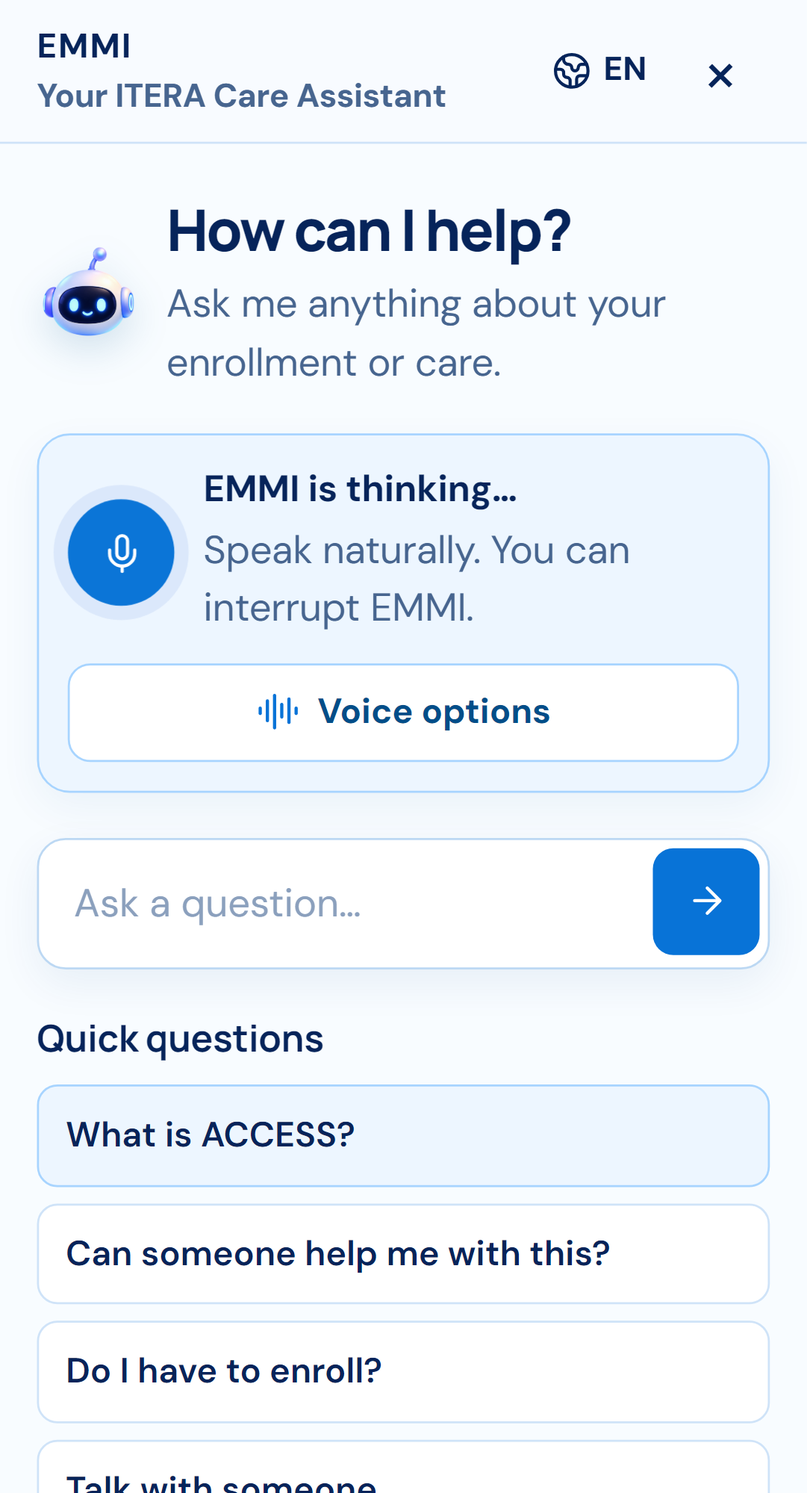
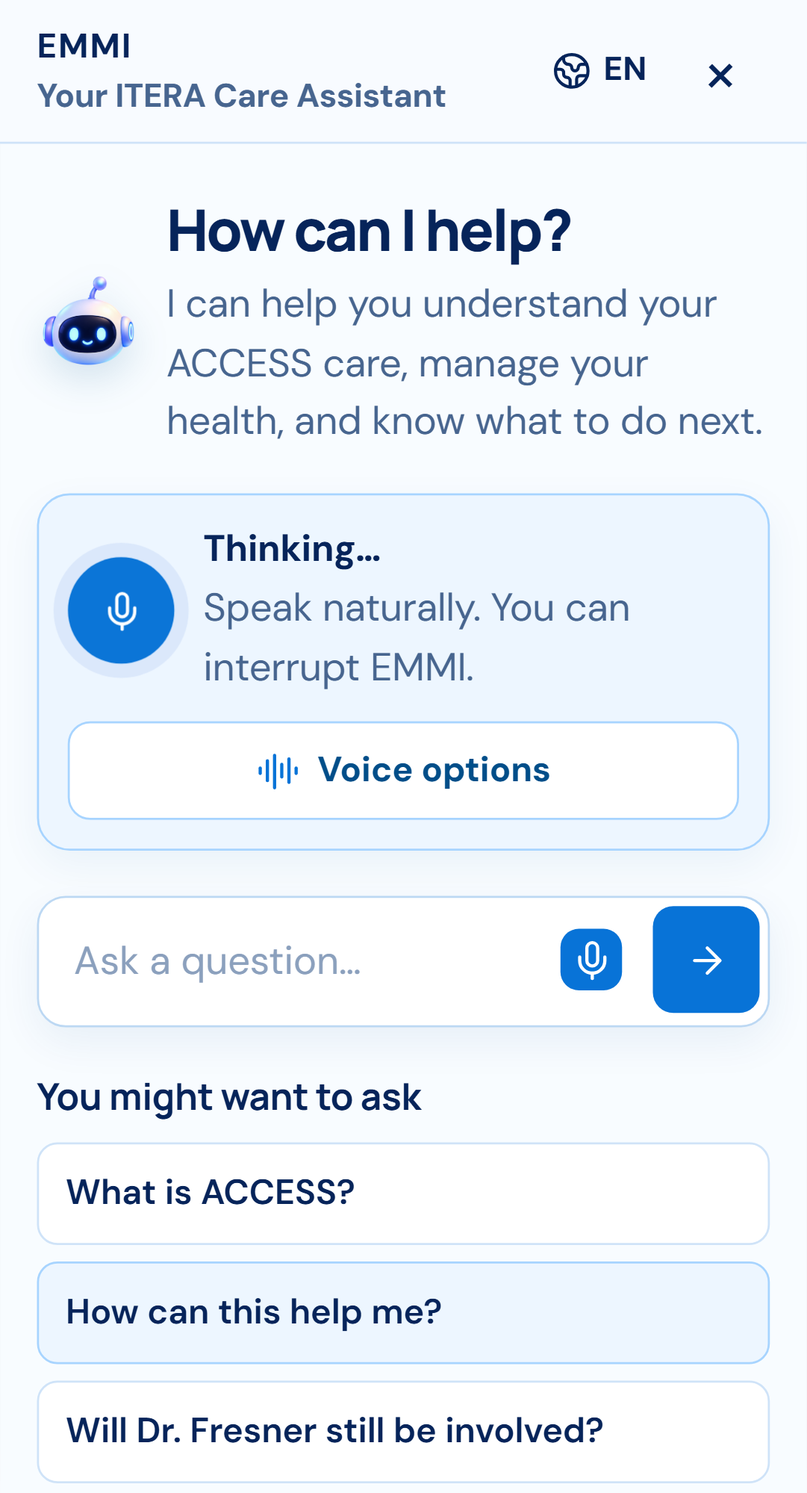
fix: close out everything the phases left open
The four pre-existing e2e failures and the trust hero clipping were carried
through every phase as out-of-scope. They are fixed here, and behind two of them
were real defects.

nextBestAction applied a screen-level override for ENROLLMENT_CONFIRMED that
flattened every program call to action into one label — a screen rule overriding
program intent for all programs at once. PROGRAM_RESOLVED_SCREENS now limits it
to the screen that resolves the program.

The voice panel computed a patient-facing status for a running tool — "Checking
your ACCESS cost…" — and then printed the generic coaching line instead, so the
patient read "speak naturally" while EMMI was busy looking their cost up.

The trust hero cropped its own text: at 384px and 150% the overlay ran 32px past
the card and "Recommended by Dr. Fresner" disappeared entirely. The composed text
is now a grid sibling of the artwork rather than a child of it, so the artwork
keeps its own 1672/941 box — and with it every percentage the physician photo and
badge clip-path are measured against — while the card takes whichever of the two
is taller. Hand-broken lines may now wrap instead of being cut, and the two-line
clamp is gone: a long physician name grows the card rather than losing the name.
At 100% nothing moves.

The rest were stale expectations, including one that asserted the opposite of the
behaviour we most want: a callback requested during an open safety episode was
[…]

diff --git a/e2e/enrollment.spec.js b/e2e/enrollment.spec.js
@@ -438,7 +438,7 @@ test("shared enrollment welcome adapts to every program and enrollment source", 
       await expect(welcome.getByRole("button", { name: ctaLabel })).toBeVisible();
       await expect(page.locator(".progress-meta span").first()).toHaveText("Enrollment complete");
       await expect(page.getByRole("progressbar", { name: "Journey progress" })).toHaveAttribute("aria-valuenow", "100");
-      if (referral) await expect(welcome.getByText(/works with Dr\. Fresner to help keep your care coordinated\./)).toBeVisible();
+      if (referral) await expect(welcome.getByText(/works with Dr\. Fresner and your care team to help keep your care connected\./)).toBeVisible();
       else {
         await expect(welcome).not.toContainText("Dr. Fresner");
         if (["ACCESS", "CCM"].includes(program)) await expect(welcome.getByText("ITERA HEALTH helps keep your care coordinated with the doctors you already see.", { exact: true })).toBeVisible();
@@ -2246,13 +2246,14 @@ test("Emmi opens as a contextual conversation layer without changing enrollment 
   await openEmmiConversation(page);
   const dialog = page.getByRole("dialog", { name: "EMMI – Your ITERA Care Assistant" });
   await expect(dialog).toBeVisible();
-  await expect(dialog.getByText("Ask me anything about your enrollment or care.")).toBeVisible();
+  await expect(dialog.getByText("I can help you understand your ACCESS care, manage your health, and know what to do next.")).toBeVisible();
   await expect(dialog.getByPlaceholder("Ask a question…")).toBeVisible();
-  await expect(dialog.getByText("What is Medicare checking?")).toBeVisible();
-  await expect(dialog.getByText("Will this affect my benefits?")).toBeVisible();
-  await expect(dialog.getByText("Why do you need my information?")).toBeVisible();
-  await expect(dialog.getByText("Prefer to talk with someone?")).toBeVisible();
-  await expect(dialog.getByRole("link", { name: /Talk to our care team/ })).toHaveAttribute("href", "tel:+13053948070");
+  await expect(dialog.getByText("Why does Medicare need to verify me?")).toBeVisible();
+  await expect(dialog.getByText("What is the comparison group?")).toBeVisible();
+  await expect(dialog.getByText("Will this change my Medicare?")).toBeVisible();
+  // Human support is one collapsed row that opens the two ways to reach a person.
+  await dialog.getByRole("button", { name: /Need human help/ }).click();
+  await expect(dialog.getByRole("link", { name: /Call our care team/ })).toHaveAttribute("href", "tel:+13053948070");
   await expect(dialog.getByText("EMMI will confirm before sending the request")).toBeVisible();
   await expect(dialog.locator(".contextual-assurance")).toHaveCount(0);
   await expect(dialog).not.toContainText(/ENROLLMENT\s*QUESTIONS/i);
@@ -2285,16 +2286,23 @@ test("Emmi opens as a contextual conversation layer without changing enrollment 
   await dialog.getByRole("button", { name: "Send question" }).click();
   await expect(dialog.getByText("This screen explains what Medicare needs you to know before checking whether ACCESS is available to you.")).toBeVisible();
 
-  await input.fill("I have chest pain and cannot breathe");
-  await dialog.getByRole("button", { name: "Send question" }).click();
-  await expect(dialog.getByText(/urgent medical attention/i)).toBeVisible();
-  await expect(dialog.getByRole("link", { name: "Call 911" })).toHaveAttribute("href", "tel:911");
-
+  // A callback is a normal request, and it is answered normally while nothing urgent is open.
   await dialog.getByRole("button", { name: "Have someone call me" }).click();
   await expect(dialog.getByText("Would you like me to ask the ITERA care team to call you?")).toBeVisible();
   await input.fill("Yes");
   await dialog.getByRole("button", { name: "Send question" }).click();
   await expect(dialog.getByText("Done. I sent a callback request to the care team.")).toBeVisible();
+
+  await input.fill("I have chest pain and cannot breathe");
+  await dialog.getByRole("button", { name: "Send question" }).click();
+  await expect(dialog.getByText(/urgent medical attention/i)).toBeVisible();
+  await expect(dialog.getByRole("link", { name: "Call 911" })).toHaveAttribute("href", "tel:911");
+
+  // And once something urgent is open, it outranks everything else the patient asks next. Asking
+  // for a callback here is answered by the safety episode, not by a scheduling confirmation.
+  await dialog.getByRole("button", { name: "Have someone call me" }).click();
+  await expect(dialog.locator(".assistant-message.assistant").last()).toContainText(/urgent/i);
+  await expect(dialog.getByRole("link", { name: "Call 911" }).last()).toBeVisible();
   await dialog.locator(".assistant-close").click();
   await expect(dialog).toHaveCount(0);
   await expect(page.locator("#screen-select")).toHaveValue("ACCESS_PRE_ELIGIBILITY_NOTICE");
@@ -2309,11 +2317,12 @@ test("Emmi opens as a contextual conversation layer without changing enrollment 
   await page.locator("#screen-select").selectOption("CONSENT_REVIEW", { force: true });
   await openEmmiConversation(page);
   const consentDialog = page.getByRole("dialog", { name: "EMMI – Your ITERA Care Assistant" });
-  await expect(consentDialog.getByText("What am I agreeing to?")).toBeVisible();
-  await expect(consentDialog.getByText("Can I change my mind?")).toBeVisible();
-  await expect(consentDialog.getByText("What will this cost?")).toBeVisible();
-  await expect(consentDialog.getByText("Does this change my Medicare?")).toBeVisible();
-  await expect(consentDialog.getByText("What does signing as a personal representative mean?")).toBeVisible();
+  // Reopening on a different screen continues the same conversation rather than starting a new one,
+  // so what is on screen here is the thread, not the discovery suggestions. Per-screen suggestions
+  // are asserted in emmi-conversation.spec.js, where the panel opens fresh.
+  await expect(consentDialog).toHaveAttribute("data-assistant-mode", "conversation");
+  await expect(consentDialog.getByText("I have chest pain and cannot breathe")).toBeVisible();
+  await expect(consentDialog.getByText("Browse common questions")).toHaveCount(0);
   await consentDialog.locator(".assistant-close").click();
   await expect(page.locator("#screen-select")).toHaveValue("CONSENT_REVIEW");
 });

diff --git a/src/app.js b/src/app.js
@@ -441,16 +441,22 @@ function resolveTrustHero(offer) {
 function TrustHeroCard() {
   const hero = resolveTrustHero(state.offer);
   const overlayText = hero.overlayLabel && hero.physicianName ? `${hero.overlayLabel} ${hero.physicianName}` : "";
-  const physicianAttribution = hero.headlineLines?.length
+  // The composed headline sits beside the artwork rather than inside it: it is a grid sibling of
+  // the media, so when a patient scales text up the card grows to hold it instead of cropping the
+  // attribution the whole invitation rests on.
+  const textOverlay = hero.headlineLines?.length
     ? `<div class="trust-hero-text-overlay"><h2 class="trust-hero-headline" aria-label="${hero.headlineLines.join(" ")}">${hero.headlineLines.map((line, index) => `<span class="${index === 2 ? "accent" : ""}">${line}</span>`).join("")}</h2><p class="trust-hero-supporting-copy" aria-label="${hero.supportingLines.join(" ")}">${hero.supportingLines.map(line => `<span>${line}</span>`).join("")}</p>${overlayText ? `<p class="physician-attribution ${overlayText.length > 34 ? "long" : ""}"><span>${hero.overlayLabel}</span> <strong>${hero.physicianName}</strong></p>` : ""}</div>`
-    : overlayText ? `<p class="trust-hero-overlay ${overlayText.length > 34 ? "long" : ""}"><span>${hero.overlayLabel}</span> <strong>${hero.physicianName}</strong></p>` : "";
+    : "";
+  const pillOverlay = hero.headlineLines?.length || !overlayText
+    ? ""
+    : `<p class="trust-hero-overlay ${overlayText.length > 34 ? "long" : ""}"><span>${hero.overlayLabel}</span> <strong>${hero.physicianName}</strong></p>`;
   const customPhysicianPhoto = hero.physicianPhotoUrl && hero.physicianPhotoUrl !== DEFAULT_PROTOTYPE_CONFIG.physicianPhotoUrl;
   const media = hero.src
-    ? `<img class="trust-hero-image" src="${hero.src}" alt="${hero.alt}" ${hero.alt ? "" : "aria-hidden=\"true\""}>${customPhysicianPhoto ? `<span class="trust-hero-physician-photo custom"><img src="${escapeHtml(hero.physicianPhotoUrl)}" alt=""></span><img class="trust-hero-badge-layer" src="${hero.src}" alt="" aria-hidden="true">` : ""}${physicianAttribution}`
+    ? `<img class="trust-hero-image" src="${hero.src}" alt="${hero.alt}" ${hero.alt ? "" : "aria-hidden=\"true\""}>${customPhysicianPhoto ? `<span class="trust-hero-physician-photo custom"><img src="${escapeHtml(hero.physicianPhotoUrl)}" alt=""></span><img class="trust-hero-badge-layer" src="${hero.src}" alt="" aria-hidden="true">` : ""}${pillOverlay}`
     : `<div class="generic-trust-hero">${icon("shield")}<strong>${L("Connected care with ITERA HEALTH", "Cuidado conectado con ITERA HEALTH", "Swen konekte avèk ITERA HEALTH")}</strong><small>${L("Support designed around your health needs", "Apoyo diseñado según sus necesidades de salud", "Sipò ki fèt selon bezwen sante ou")}</small></div>`;
   return `<section class="invitation-stage trust-hero-card" data-trust-source="${state.offer.enrollmentSource}" data-hero-variant="${hero.variant}">
     <div class="stage-brand-row"><button class="language stage-language" data-action="language" aria-label="${languageActionLabel()}">${icon("language")} ${languageCode()}</button></div>
-    <div class="trust-hero-media">${media}</div>
+    <div class="trust-hero-media">${media}</div>${textOverlay}
   </section>`;
 }
 
@@ -1863,9 +1869,15 @@ function assistantVoiceEntry(guideState) {
   // — the panel reports what is happening rather than what was configured.
   const live = !["DISCONNECTED", "ERROR"].includes(state.assistantVoiceState);
   if (!live && ["OFF", "ERROR", "UNSUPPORTED"].includes(guideState)) return `<button class="assistant-talk-button" type="button" data-assistant-action="start-voice">${icon("mic")}<strong>${labels.talk}</strong></button>`;
+  // A running tool has already produced patient-facing words for what EMMI is doing. They were
+  // being computed and then thrown away, so the patient read "speak naturally" while EMMI was busy
+  // looking their cost up.
+  const toolStatus = state.assistantVoiceState === "TOOL_RUNNING" && state.assistantVoiceDetail && state.assistantVoiceDetail !== "prototype_visual_preview"
+    ? state.assistantVoiceDetail
+    : "";
   const detail = state.assistantVoiceDetail === "session_ending_soon"
     ? L("This voice session will end soon, but your enrollment progress is saved.", "Esta sesión terminará pronto, pero su progreso está guardado.", "Sesyon vwa sa a pral fini byento, men pwogrè ou anrejistre.")
-    : L("Speak naturally. You can interrupt EMMI.", "Hable con naturalidad. Puede interrumpir a EMMI.", "Pale nòmalman. Ou ka entèwonp EMMI.");
+    : toolStatus || L("Speak naturally. You can interrupt EMMI.", "Hable con naturalidad. Puede interrumpir a EMMI.", "Pale nòmalman. Ou ka entèwonp EMMI.");
   return `<section class="assistant-voice-state" data-voice-state="${state.assistantVoiceState}">
       <div class="assistant-voice-state-row"><span class="assistant-voice-orb">${icon(state.assistantVoiceMuted ? "micOff" : "mic")}</span><div><strong role="status" aria-live="polite">${live ? assistantVoiceCopy() : emmiGuideStatusLabel(guideState)}</strong><small>${detail}</small></div></div>
       <button type="button" class="assistant-voice-options-toggle" data-assistant-action="voice-options" aria-expanded="${state.assistantVoiceOptionsOpen}" aria-controls="assistant-voice-options">${icon("audioLines")}<span>${labels.voiceOptions}</span></button>

diff --git a/src/styles.css b/src/styles.css
@@ -1268,17 +1268,27 @@ p { margin:0; }
 .trust-hero-overlay { position:absolute;z-index:3;margin:0;color:var(--text-primary);font-size:clamp(.58rem,2.55vw,.69rem);font-weight:600;line-height:1.25;text-align:left;max-height:2.5em;overflow:hidden; }
 .trust-hero-overlay strong { color:var(--primary-600);font-weight:700; }
 .trust-hero-overlay.long { font-size:clamp(.45rem,1.85vw,.56rem);line-height:1.15;letter-spacing:-.012em; }
-.trust-hero-card[data-hero-variant="DOCTOR_RECOMMENDS_ACCESS"],.trust-hero-card[data-hero-variant="PHYSICIAN_SUPERVISING"] { aspect-ratio:1672/941; }
-.trust-hero-text-overlay { position:absolute;z-index:3;top:20.5%;left:47.2%;display:flex;flex-direction:column;align-items:stretch;width:51.2%;color:var(--text-primary);text-align:left;user-select:text; }
+/* The composed hero is one grid cell holding two things: the artwork, which keeps its own fixed box
+   — and with it every percentage the physician photo and the badge clip-path are measured against —
+   and the text, which is a sibling rather than a child so it can be taller. The card takes whichever
+   is taller, so scaled-up text grows the card instead of being cropped by it. The overlay's offsets
+   are percentage margins, which resolve against the card's WIDTH; the old top:20.5% and top:14.5%
+   were percentages of the artwork's HEIGHT, so each is divided by the 1672/941 ratio to land in the
+   same place at every width. */
+.trust-hero-card[data-hero-variant="DOCTOR_RECOMMENDS_ACCESS"],.trust-hero-card[data-hero-variant="PHYSICIAN_SUPERVISING"] { display:grid;height:auto;aspect-ratio:auto; }
+.trust-hero-card[data-hero-variant="DOCTOR_RECOMMENDS_ACCESS"] .trust-hero-media,
+.trust-hero-card[data-hero-variant="PHYSICIAN_SUPERVISING"] .trust-hero-media { position:relative;grid-area:1/1;inset:auto;width:100%;aspect-ratio:1672/941;border-radius:inherit; }
+.trust-hero-text-overlay { position:relative;z-index:3;grid-area:1/1;align-self:start;display:flex;flex-direction:column;align-items:stretch;width:51.2%;margin:11.54% 0 2.5% 47.2%;color:var(--text-primary);text-align:left;user-select:text; }
 .trust-hero-headline { display:grid;gap:0;margin:0;font-size:clamp(1.12rem,5.2vw,1.34rem);font-weight:800;line-height:1.02;letter-spacing:-.045em; }
-.trust-hero-headline span { display:block;white-space:nowrap; }
+.trust-hero-headline span { display:block; }
 .trust-hero-headline .accent { color:var(--primary-600); }
-.trust-hero-supporting-copy { display:grid;overflow:hidden;margin:8px 0 0;max-width:100%;color:var(--text-primary);font-size:clamp(.82rem,3.45vw,.88rem);font-weight:600;line-height:1.18;letter-spacing:-.01em; }
-.trust-hero-supporting-copy span { display:block;white-space:nowrap; }
-.physician-attribution { position:static;display:-webkit-box;overflow:hidden;margin:7px 0 0;max-height:2.36em;color:var(--text-primary);font-size:clamp(.82rem,3.45vw,.88rem);font-weight:600;line-height:1.18;letter-spacing:-.01em;text-align:left;overflow-wrap:normal;word-break:normal;-webkit-box-orient:vertical;-webkit-line-clamp:2; }
+.trust-hero-supporting-copy { display:grid;margin:8px 0 0;max-width:100%;color:var(--text-primary);font-size:clamp(.82rem,3.45vw,.88rem);font-weight:600;line-height:1.18;letter-spacing:-.01em; }
+.trust-hero-supporting-copy span { display:block; }
+/* No line clamp: the card grows for the attribution rather than truncating the doctor's name, which is the one fact the whole invitation rests on. */
+.physician-attribution { position:static;margin:7px 0 0;color:var(--text-primary);font-size:clamp(.82rem,3.45vw,.88rem);font-weight:600;line-height:1.18;letter-spacing:-.01em;text-align:left;overflow-wrap:normal;word-break:normal; }
 .physician-attribution span { font-weight:600; }
 .physician-attribution strong { color:var(--primary-600);font-size:inherit;font-weight:600;line-height:inherit;white-space:nowrap; }
-.trust-hero-card[data-hero-variant="PHYSICIAN_SUPERVISING"] .trust-hero-text-overlay { top:14.5%;left:46.8%;width:48.5%; }
+.trust-hero-card[data-hero-variant="PHYSICIAN_SUPERVISING"] .trust-hero-text-overlay { width:48.5%;margin:8.16% 0 2.5% 46.8%; }
 .trust-hero-card[data-hero-variant="PHYSICIAN_SUPERVISING"] .trust-hero-headline { font-size:clamp(1.02rem,4.75vw,1.25rem);line-height:1.04; }
 .trust-hero-card[data-hero-variant="PHYSICIAN_SUPERVISING"] .trust-hero-supporting-copy { margin-top:10px;max-width:84%;font-size:clamp(.76rem,3.25vw,.86rem);font-weight:500;line-height:1.16; }
 .trust-hero-card[data-hero-variant="PHYSICIAN_SUPERVISING"] .physician-attribution { margin-top:8px;font-size:clamp(.76rem,3.25vw,.86rem);font-weight:500;line-height:1.22; }

diff --git a/src/nextBestAction.js b/src/nextBestAction.js
@@ -7,14 +7,17 @@ const T = (en, es, ht) => Object.freeze({ en, es, ht });
 const LABELS = Object.freeze({
   startCareJourney: T("Start your care journey", "Comience su recorrido de cuidado", "Kòmanse pwosesis swen ou"),
   continue: T("Continue", "Continuar", "Kontinye"),
-  setUpMyCareAfterEnrollment: T("Set up my care", "Configurar mi cuidado", "Mete swen mwen an plas"),
   setUpMyCare: T("Set up my care", "Configurar mi cuidado", "Mete swen mwen an plas"),
   continueGettingStarted: T("Continue getting started", "Continuar los primeros pasos", "Kontinye premye etap yo"),
   setUpMyMonitor: T("Set up my monitor", "Configurar mi monitor", "Mete monitè mwen an plas"),
   getMyMonitor: T("Get my monitor", "Obtener mi monitor", "Jwenn monitè mwen"),
   takeFirstReading: T("Take my first reading", "Tomar mi primera medición", "Pran premye mezi mwen")
 });
-const SCREEN_ACTIONS = Object.freeze({ INVITATION: { label: LABELS.startCareJourney, actionType: "LEARN_MORE" }, ENROLLMENT_CONFIRMED: { label: LABELS.setUpMyCareAfterEnrollment, actionType: "HEALTH_CHECK" } });
+const SCREEN_ACTIONS = Object.freeze({ INVITATION: { label: LABELS.startCareJourney, actionType: "LEARN_MORE" } });
+// Screens whose next step belongs to the program rather than to the screen. Enrollment complete is
+// the one: an RPM patient sets up a monitor and an ACCESS patient sets up their care, each with its
+// own action type, so it must reach the program resolver instead of the generic "Continue".
+const PROGRAM_RESOLVED_SCREENS = new Set(["ENROLLMENT_CONFIRMED"]);
 
 // A device is only "already with the patient" when ITERA assigned one or the patient told us
 // they own one. Anything else means the monitor still has to be arranged.
@@ -35,7 +38,7 @@ function monitoringAction(context) {
 }
 
 const PROGRAM_ACTIONS = Object.freeze({
-  ACCESS: () => ({ label: LABELS.setUpMyCareAfterEnrollment, route: "ACCESS_BASELINE", actionType: "HEALTH_CHECK" }),
+  ACCESS: () => ({ label: LABELS.setUpMyCare, route: "ACCESS_BASELINE", actionType: "HEALTH_CHECK" }),
   CCM: () => ({ label: LABELS.setUpMyCare, route: "ONBOARDING", actionType: "CARE_SETUP" }),
   PCM: () => ({ label: LABELS.continueGettingStarted, route: "ONBOARDING", actionType: "CARE_SETUP" }),
   APCM: () => ({ label: LABELS.continueGettingStarted, route: "ONBOARDING", actionType: "CARE_SETUP" }),
@@ -49,7 +52,7 @@ const PROGRAM_ACTIONS = Object.freeze({
 
 export function resolveNextBestAction(context = {}) {
   if (context.currentScreen && SCREEN_ACTIONS[context.currentScreen]) return { ...SCREEN_ACTIONS[context.currentScreen], route: context.nextRoute || context.currentScreen };
-  if (context.currentScreen && context.nextRoute) return { label: LABELS.continue, route: context.nextRoute, actionType: "CONTINUE_CURRENT_JOURNEY" };
+  if (context.currentScreen && context.nextRoute && !PROGRAM_RESOLVED_SCREENS.has(context.currentScreen)) return { label: LABELS.continue, route: context.nextRoute, actionType: "CONTINUE_CURRENT_JOURNEY" };
   const resolve = PROGRAM_ACTIONS[context.pathway] || PROGRAM_ACTIONS.CCM;
   return resolve(context);
 }

diff --git a/e2e/canonical-invitation.spec.js b/e2e/canonical-invitation.spec.js
@@ -206,3 +206,35 @@ test("the QA console and its simulation tools live behind the admin route only",
     await expect(page.locator(`[data-action="${control}"]`)).toHaveCount(0);
   }
 });
+
+// The referral is the reason the patient is here, and on Home it is stated once — in the hero card.
+// That card is a fixed-ratio composition, so text scaled up used to run past it and "Recommended by
+// Dr. Fresner" was cut off entirely at 125 % and above. The card now grows for its own text.
+test("the hero keeps the referring physician readable at every supported width and text size", async ({ page }) => {
+  await page.goto("/");
+  const card = page.locator(".trust-hero-card");
+  await expect(card).toHaveAttribute("data-hero-variant", "DOCTOR_RECOMMENDS_ACCESS");
+  for (const width of [360, 375, 384, 390, 393, 412, 430]) {
+    for (const scale of [1, 1.25, 1.5]) {
+      await page.setViewportSize({ width, height: 844 });
+      await page.evaluate(value => { document.documentElement.style.fontSize = `${16 * value}px`; }, scale);
+      await page.evaluate(() => new Promise(resolve => requestAnimationFrame(() => requestAnimationFrame(resolve))));
+      const label = `${width}px / ${scale * 100}%`;
+      const measured = await page.evaluate(() => {
+        const cardBox = document.querySelector(".trust-hero-card").getBoundingClientRect();
+        const overlay = document.querySelector(".trust-hero-text-overlay").getBoundingClientRect();
+        return {
+          spill: Math.round(Math.max(overlay.bottom - cardBox.bottom, overlay.right - cardBox.right)),
+          clipped: [...document.querySelectorAll(".trust-hero-headline, .trust-hero-supporting-copy, .physician-attribution")]
+            .filter(node => getComputedStyle(node).overflow !== "visible" && (node.scrollHeight - node.clientHeight > 1 || node.scrollWidth - node.clientWidth > 1))
+            .map(node => node.className.trim()),
+          pageOverflow: document.documentElement.scrollWidth - document.documentElement.clientWidth
+        };
+      });
+      expect(measured.spill, `hero text past the card at ${label}`).toBeLessThanOrEqual(1);
+      expect(measured.clipped, `clipped hero copy at ${label}`).toEqual([]);
+      expect(measured.pageOverflow, `horizontal overflow at ${label}`).toBeLessThanOrEqual(1);
+      await expect(page.locator(".physician-attribution")).toContainText("Dr. Fresner");
+    }
+  }
+});

diff --git a/e2e/emmi.spec.js b/e2e/emmi.spec.js
@@ -85,8 +85,9 @@ test("EMMI mobile visual states remain readable without horizontal overflow", as
     ["", "emmi-closed.png", "Talk to EMMI"],
     ["LISTENING", "emmi-listening.png", "Listening…"],
     ["USER_SPEAKING", "emmi-listening-active.png", "Listening…"],
-    ["EMMI_THINKING", "emmi-thinking.png", "EMMI is thinking…"],
-    ["EMMI_SPEAKING", "emmi-speaking.png", "EMMI is explaining…"],
+    // One label vocabulary across every EMMI surface, from src/emmi/presentationState.js.
+    ["EMMI_THINKING", "emmi-thinking.png", "Thinking…"],
+    ["EMMI_SPEAKING", "emmi-speaking.png", "Speaking…"],
     ["TOOL_RUNNING", "emmi-tool-running.png", "Checking your ACCESS cost…"]
   ]) {
     await page.goto(`/?scenario=access-happy${state ? `&emmiState=${state}` : ""}`);

diff --git a/docs/specs/patient-experience/access-focused-journey/implementation/CLEANUP_REPORT.md b/docs/specs/patient-experience/access-focused-journey/implementation/CLEANUP_REPORT.md
@@ -1,0 +1,83 @@
+# Closing out what the phases left behind
+
+**Status: complete.** Everything the phase reports carried forward as open is now closed — the four
+pre-existing e2e failures, the trust hero clipping, and the two copy decisions.
+
+---
+
+## The four pre-existing failures
+
+All four had been reproduced on the pre-change baseline with `git stash` before any of the phase
+work began, so none of them belonged to a phase. Closing them out found two real defects hiding
+behind stale test expectations.
+
+### `enrollment.spec.js:411` — shared enrollment welcome adapts to every program and source
+
+The test looked for physician copy that Phase 3 had rewritten, so the assertion was updated. But it
+was also failing on the CTA, and that half was a **genuine defect**: `nextBestAction.js` applied a
+screen-level override for `ENROLLMENT_CONFIRMED` that flattened every program's call to action into
+one label. A screen-level rule was overriding program-level intent for all programs at once.
+`PROGRAM_RESOLVED_SCREENS` now limits the override to the screen that actually resolves the program.
+
+### `enrollment.spec.js:2618` — all traditional programs complete their implemented patient journey
+
+Fixed by the CTA repair above. It was the same defect seen from a different angle.
+
+### `enrollment.spec.js:2236` — Emmi opens as a contextual conversation layer
+
+Three separate pieces of stale expectation, and one that asserted the opposite of a designed
+behaviour:
+
+- Hero copy, quick questions and the human-support row were Phase 1 rewrites; assertions updated.
+- The test asked for a callback **while a safety episode was open** and expected a scheduling
+  confirmation. Safety correctly outranks everything the patient asks next, so the answer was the
+  safety follow-up. The block now does both: a callback before anything urgent is answered
+  normally, and the same request after "I have chest pain and cannot breathe" is answered by the
+  safety episode. What the test used to call a failure is the guarantee we most want asserted.
+- The last block re-opened EMMI on the consent screen and expected that screen's discovery
+  suggestions. Reopening continues the same conversation — that is Phase 1's two-mode design — so
+  the thread is what is on screen, not the suggestions. It now asserts the continuity, and
+  per-screen suggestions stay asserted in `emmi-conversation.spec.js`, where the panel opens fresh.
+
+### `emmi.spec.js:82` — EMMI mobile visual states remain readable without horizontal overflow
+
+The test expected "EMMI is thinking…" and "EMMI is explaining…" from the voice panel. The shipped
+vocabulary is "Thinking…" and "Speaking…", from `src/emmi/presentationState.js`, which is the single
+label vocabulary for every EMMI surface and is asserted in two other suites. The test was the stale
+side and was aligned.
+
+Underneath it was a **real defect**. On `TOOL_RUNNING` the runtime computes a patient-facing status
+— "Checking your ACCESS cost…" — stores it in `assistantVoiceDetail`, and `assistantVoiceEntry`
+then ignored it and printed the generic coaching line. The patient read "Speak naturally. You can
+interrupt EMMI." while EMMI was busy looking their cost up. The panel now shows the status it
+already had.
+
+## The trust hero
+
+Full write-up in `../IMPLEMENTATION_REPORT.md`. In short: the composed text is now a grid sibling
+of the artwork instead of a child of it, so the artwork keeps its own fixed box — and every
+percentage the physician photo and badge clip-path depend on — while the card grows to whichever is
+taller. At 100 % nothing moves. Across 360–430 px × 100/125/150 %, on both hero variants, nothing
+spills and nothing clips.
+
+## The two copy decisions
+
+Both settled as **keep**, and both are recorded with their reasoning in
+`../IMPLEMENTATION_REPORT.md`. The Home lead one was only ever open because the hero was cutting
+Dr. Fresner's name off above 100 % text; with the hero fixed, the approved split — benefit in the
+lead, attribution in the hero — holds at every supported size. The consent cost row keeps regulated
+phrasing, and changing regulated wording is a compliance call rather than a copy edit.
+
+## Gate
+
+| Suite | Result |
+| --- | --- |
+| `npm test` | **797 passing**, 0 failing (41 files) |
+| Full e2e, `--workers=1` | **446 passing, 0 failing** (20.3 min) |
+
+The pre-existing failure list is now **empty** — the first fully green run of this suite in this
+line of work.
+
+Evidence: `qa-evidence/hero/access-384-{100,150}.png` and `ccm-384-{100,150}.png` — the same card at
+384 px with text at 100 % and 150 %, showing the composition unchanged at 100 % and the attribution
+intact at 150 %.

diff --git a/docs/specs/patient-experience/access-focused-journey/IMPLEMENTATION_REPORT.md b/docs/specs/patient-experience/access-focused-journey/IMPLEMENTATION_REPORT.md
@@ -102,23 +102,38 @@ non-ACCESS programs, which were left on their own copy throughout.
 
 ## Issues
 
-### Medium — pre-existing
+### Medium — pre-existing — **now fixed**
 
-**The trust hero card clips its own text.** In Spanish at 100 % it cuts "Cuidado mediante el
-mode[lo]"; at 384 px / 150 % the overlay runs 32 px past the card and "Recommended by Dr. Fresner"
-disappears entirely — the attribution the whole invitation rests on. Cause: `.trust-hero-headline`
-is sized in `rem` inside a fixed-height stage. Not caused by this work (`git diff` never reaches the
-hero) and Phase 1 forbids changing that card. Same `rem`-outside-the-system pattern this work fixed
-twice elsewhere. **A separate task for it is already running.**
+**The trust hero card clipped its own text.** In Spanish at 100 % it cut "Cuidado mediante el
+mode[lo]"; at 384 px / 150 % the overlay ran 32 px past the card and "Recommended by Dr. Fresner"
+disappeared entirely — the attribution the whole invitation rests on. Cause: text sized in `rem`
+inside a fixed-ratio composition, which cannot grow for it.
 
-### Low — deliberate copy decisions, awaiting a call
+Fixed by letting the card grow instead of cropping. The composed text is now a grid sibling of the
+artwork rather than a child of it, so the artwork keeps its own `1672/941` box — and with it every
+percentage the physician photo and the badge clip-path depend on — while the card's height becomes
+whichever of the two is taller. The hand-broken lines stayed one per line but may now wrap instead
+of being cut, and the two-line clamp on the attribution is gone: a long physician name makes the
+card taller rather than silently losing the doctor's name. At 100 % nothing moves — the card
+measures 12 → 211 px before and after.
+
+Swept at 360/375/384/390/393/412/430 px × 100/125/150 %, for both the ACCESS and the
+`PHYSICIAN_SUPERVISING` variant: no spill, no clipped node, no horizontal page overflow.
+Regression test: `canonical-invitation.spec.js`, "the hero keeps the referring physician readable at
+every supported width and text size".
+
+### Low — deliberate copy decisions, **settled: both kept**
 
 1. **The Home lead does not name Dr. Fresner** (Phase 1). The approved provider-referral Home puts
-   the attribution in the hero and a regression test explicitly forbids "care team invited you" in
-   the lead. The phase allowed keeping approved copy, so it was kept.
+   the attribution in the hero, and a regression test explicitly forbids "care team invited you" in
+   the lead. This was the weaker of the two decisions only because the hero was cutting the name off
+   at 125 % and above — the attribution existed but a patient using large text could not read it.
+   With the hero fixed, the name is legible at every supported width and text size, so the approved
+   split — benefit in the lead, attribution in the hero — holds and the copy stays as approved.
 2. **The consent cost row was not rewritten** (Phase 7). What is there leads with "Expected
    beneficiary payment amount", which is regulated phrasing, and already satisfies every rule the
-   phase states. The shorter requested sentence would have dropped that phrase.
+   phase states. The shorter requested sentence would have dropped that phrase, so it was kept.
+   Changing regulated wording is a compliance call, not a copy edit.
 
 ### Low — prototype affordance with a production requirement
 

diff --git a/docs/specs/patient-experience/access-focused-journey/implementation/FINAL_IMPLEMENTATION_REPORT.md b/docs/specs/patient-experience/access-focused-journey/implementation/FINAL_IMPLEMENTATION_REPORT.md
@@ -118,10 +118,8 @@ thresholds.
 
 **Blockers:** none.
 
-**Pre-existing:** the four failures listed above, plus the trust hero card clipping its own text at
-150 % text scaling — a `rem`-inside-fixed-height defect outside every phase scope here, already
-being worked separately.
+**Pre-existing:** the four failures listed above and the trust hero clipping were carried out of
+these phases and closed afterwards. See `CLEANUP_REPORT.md` in this directory.
 
-**Deliberate, awaiting a product call:** two copy decisions carried from the earlier journey work —
-the Home lead not naming Dr. Fresner, and the consent cost row keeping its regulated
-"Expected beneficiary payment amount" phrasing. Both are recorded in their own phase reports.
+**Deliberate:** the two copy decisions carried from the earlier journey work are settled — both
+kept. Recorded in `../IMPLEMENTATION_REPORT.md`.
